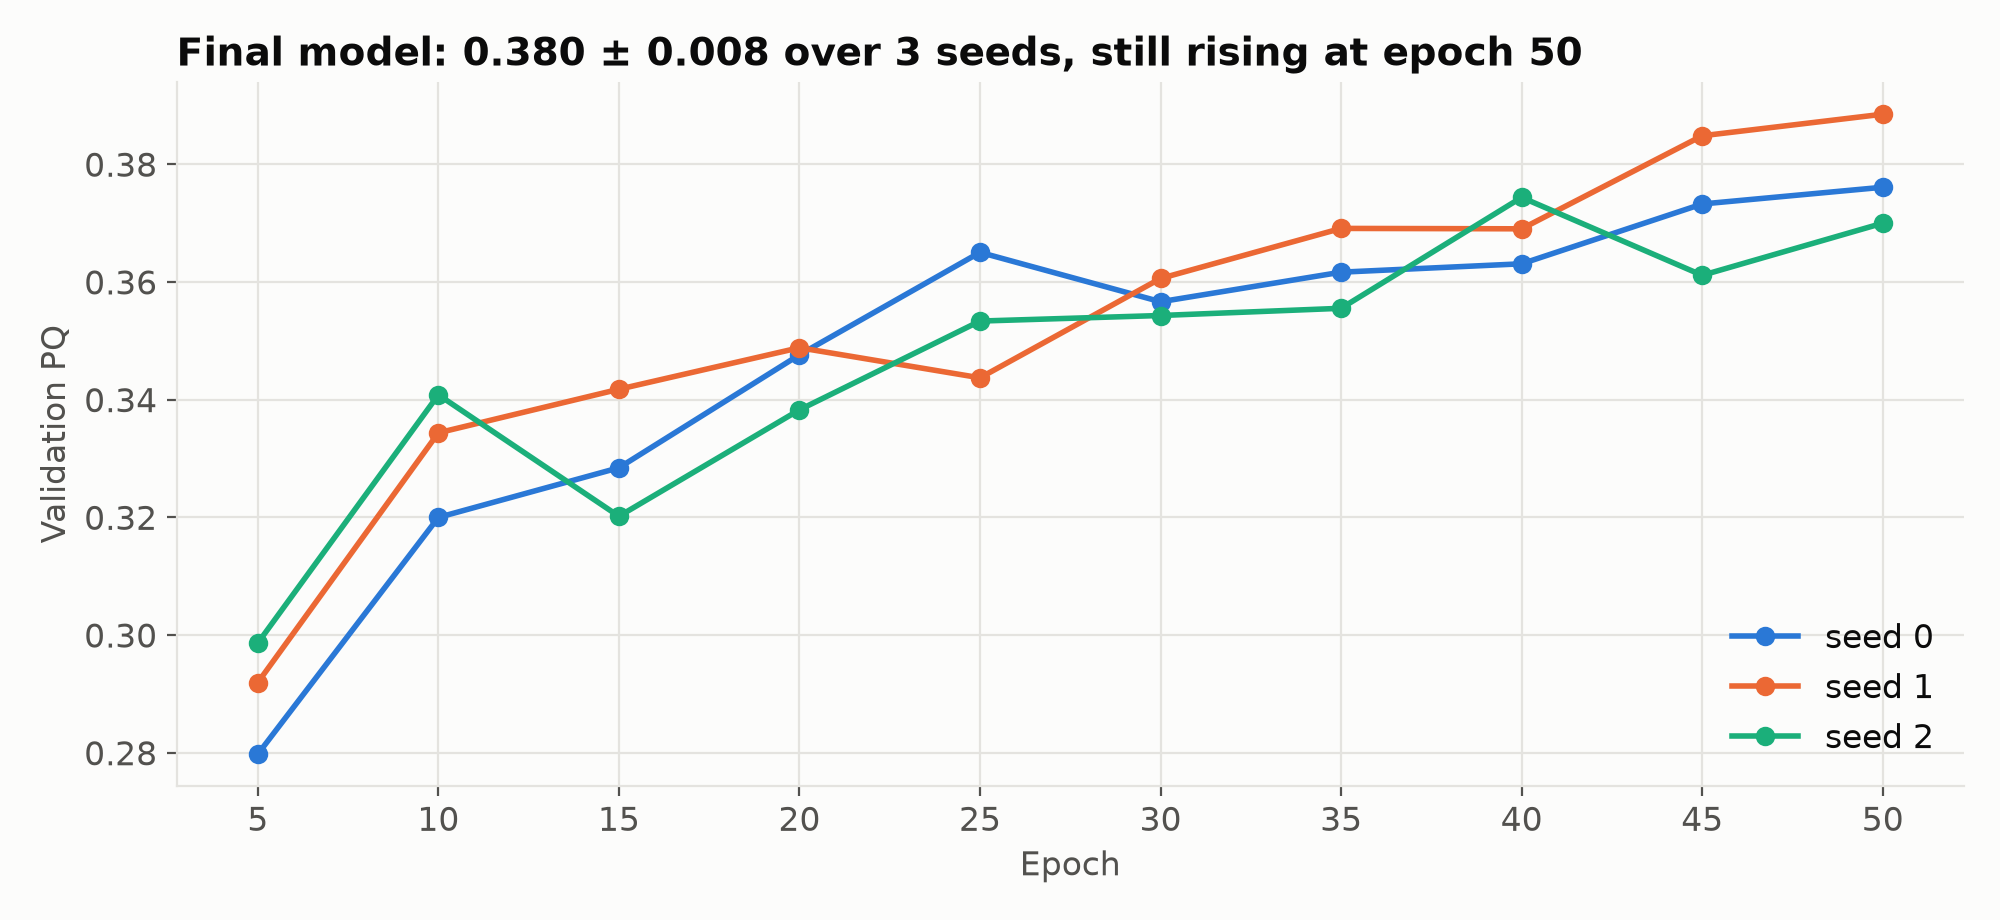
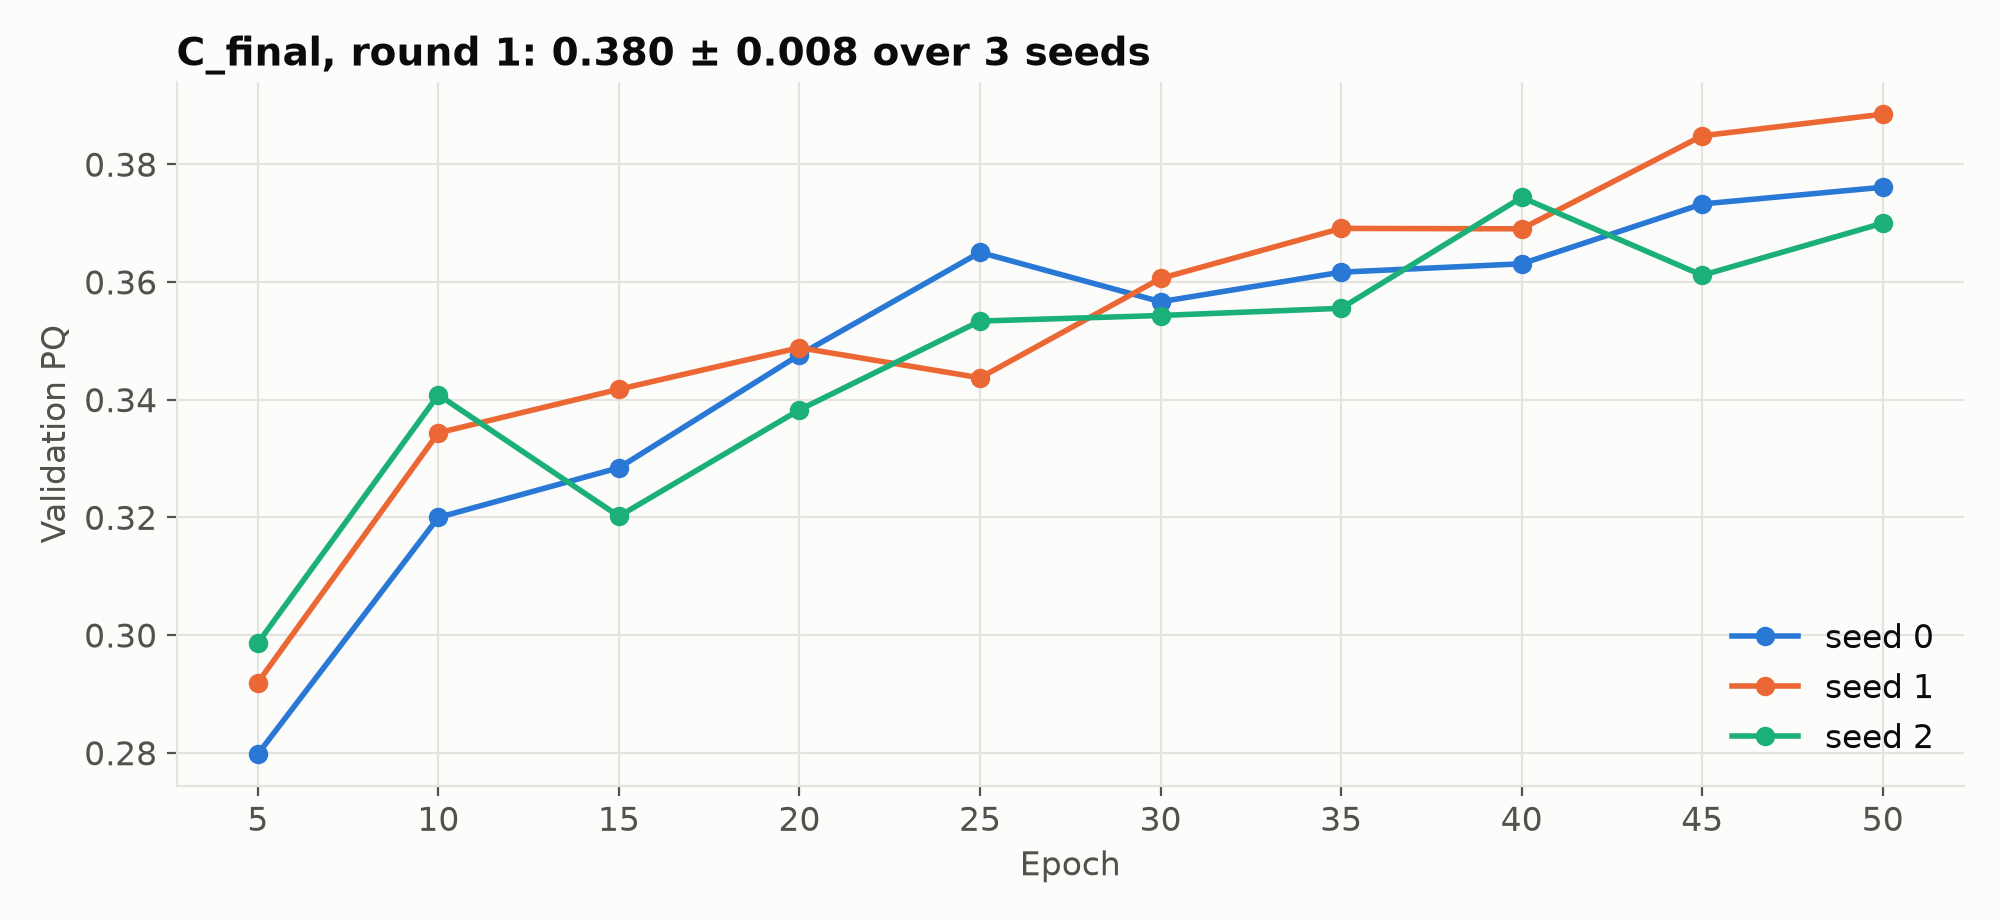
Keep C_final as final model; add round 2 results and two-round analysis

Changed region(s): [[0.093, 0.0304, 0.806, 0.0913]]

diff --git a/docs/make_figures.py b/docs/make_figures.py
@@ -1,6 +1,7 @@
-"""Slide figures for the methodology section, from the Kaggle runs in results/runs.
+"""Slide figures for the methodology section, from the Kaggle runs: round 1 in results/runs
+(with training histories), round 2 in results/round2/results.csv.
 
-Usage: python docs/make_figures.py [runs_dir] [out_dir]
+Usage: python docs/make_figures.py [runs_dir] [out_dir] [round2_csv]
 """
 import sys
 from pathlib import Path
@@ -16,7 +17,7 @@ OUT.mkdir(parents=True, exist_ok=True)
 
 SURFACE, INK, INK2, GRID = "#fcfcfb", "#0b0b0b", "#52514e", "#e4e3df"
 SERIES = ["#2a78d6", "#eb6834", "#1baf7a", "#eda100"]  # categorical slots 1-4, fixed order
-BAR, BAR_FINAL = "#86b6ef", "#1c5cab"                 # one hue; the final model in a darker step
+BAR = "#86b6ef"                                       # light blue band for C_final's spread
 
 plt.rcParams.update({
     "figure.facecolor": SURFACE, "axes.facecolor": SURFACE, "savefig.facecolor": SURFACE,
@@ -27,6 +28,7 @@ plt.rcParams.update({
 })
 
 res = pd.read_csv(RUNS / "results.csv")
+res2 = pd.read_csv(Path(sys.argv[3] if len(sys.argv) > 3 else "results/round2/results.csv"))
 
 
 def hist(run):
@@ -34,7 +36,7 @@ def hist(run):
     return h.dropna(subset=["val_PQ"])
 
 
-# 1. Stage comparison: validation PQ of every run, in the order the search ran them
+# 1. Stage comparison: every run of both Kaggle rounds, so the run-to-run noise is visible
 labels = {
     "A1_unet_fg": "A1  U-Net, fg only",
     "A2_unet_mt": "A2  U-Net, 5 outputs",
@@ -43,33 +45,41 @@ labels = {
     "B1_lr0.001": "B1  lr 1e-3",
     "B2_soft0.5": "B2  soft labels",
     "B2_crop768": "B2  768 crops",
+    "D1_soft_crop768": "D1  soft labels + 768 crops",
+    "D2_crop1024": "D2  1024 crops",
+    "D3_pos0.5": "D3  50% filament-centred crops",
+    "C_final": "C  final: 768 crops, 50 ep (3 seeds)",
+    "D_final": "D  1024 crops, 80 ep (1 seed)",
 }
-single = res[res.name.isin(labels)].set_index("name").loc[list(labels)]
-final = res[res.name == "C_final"].val_PQ
-rows = [(labels[n], single.loc[n, "val_PQ"], 0.0, BAR) for n in labels]
-rows.append(("C  final: 768 crops, 50 ep (3 seeds)", final.mean(), final.std(), BAR_FINAL))
-pp = pd.read_csv(next(RUNS.glob("C_final_s*/pp_grid.csv")))  # tuned on the best seed
-best_seed = res[res.name == "C_final"].sort_values("val_PQ").iloc[-1].seed
-rows.append((f"C  seed {best_seed} + tuned post-processing", pp.PQ.iloc[0], 0.0, BAR_FINAL))
+rounds = {1: res, 2: res2}
+c_all = pd.concat([r[r.name == "C_final"].val_PQ for r in rounds.values()])
 
-fig, ax = plt.subplots(figsize=(10, 5.6))
-y = range(len(rows))[::-1]
-for yi, (lab, v, sd, c) in zip(y, rows):
-    ax.barh(yi, v, height=0.62, color=c, edgecolor=SURFACE, linewidth=2)
-    if sd:
-        ax.errorbar(v, yi, xerr=sd, color=INK, capsize=4, lw=1.5)
-    ax.text(v + (sd or 0) + 0.004, yi, f"{v:.3f}" + (f" ± {sd:.3f}" if sd else ""),
-            va="center", color=INK, fontsize=11)
-ax.set_yticks(list(y), [r[0] for r in rows])
-ax.set_xlim(0, 0.48)
-ax.set_axisbelow(True)
+fig, ax = plt.subplots(figsize=(10, 6.9))
+ax.axvspan(c_all.mean() - c_all.std(), c_all.mean() + c_all.std(), color=BAR, alpha=0.35, lw=0,
+           label=f"C_final mean ± sd ({len(c_all)} runs)")
+y = list(range(len(labels)))[::-1]
+for yi, name in zip(y, labels):
+    vals = []
+    for (rnd, r), c, off in zip(rounds.items(), SERIES, (0.12, -0.12)):
+        v = r[r.name == name].val_PQ
+        vals += v.tolist()
+        ax.scatter(v, [yi + off] * len(v), s=46, color=c, edgecolor=SURFACE, linewidth=1.5, zorder=3,
+                   label=f"round {rnd}" if yi == y[0] else None)
+    mean = sum(vals) / len(vals)
+    ax.plot([mean, mean], [yi - 0.3, yi + 0.3], color=INK, lw=2, zorder=4)
+    ax.text(0.405, yi, f"{mean:.3f}" + (f"  (n={len(vals)})" if len(vals) != 2 else ""),
+            va="center", color=INK, fontsize=10)
+ax.set_yticks(y, list(labels.values()))
+ax.set_xlim(0.28, 0.43)
 ax.set_xlabel("Validation PQ (107 observations, all annotation sets)")
 ax.grid(axis="y", visible=False)
-ax.set_title("Validation PQ, stage by stage", loc="left")
-fig.text(0.01, 0.01, "Single-seed runs differ by seed noise of about ±0.008 (std over the three final seeds).",
-         color=INK2, fontsize=10)
+ax.set_axisbelow(True)
+ax.legend(loc="upper left", bbox_to_anchor=(0, -0.11), ncol=3, fontsize=10)
+ax.set_title("Validation PQ of every run; black tick = mean", loc="left")
+fig.text(0.01, 0.01, "Each experiment ran once per round (D-stage runs: round 2 only). "
+         "The same configuration varies by about ±0.007 between runs.", color=INK2, fontsize=10)
 fig.tight_layout(rect=(0, 0.03, 1, 1))
-fig.savefig(OUT / "stage_comparison.png", dpi=200)
+fig.savefig(OUT / "stage_comparison.png", dpi=200, bbox_inches="tight")
 
 # 2. Validation PQ during training: architecture/formulation runs and the crop-size winner
 curves = [("A1_unet_fg_s0", "A1 U-Net, fg only"), ("A2_unet_mt_s0", "A2 U-Net, 5 outputs"),
@@ -82,7 +92,7 @@ for (run, lab), c in zip(curves, SERIES):
                 xytext=(6, 0), textcoords="offset points", va="center", color=INK, fontsize=10)
 ax.set(xlabel="Epoch", ylabel="Validation PQ", xticks=[5, 10, 15, 20], xlim=(3, 22.5))
 ax.legend(loc="lower right")
-ax.set_title("Five outputs beat fg-only; larger crops help most", loc="left")
+ax.set_title("Round 1: five outputs beat fg-only; larger crops help most", loc="left")
 fig.tight_layout()
 fig.savefig(OUT / "val_pq_curves.png", dpi=200)
 
@@ -93,7 +103,8 @@ for s, c in zip(range(3), SERIES):
     ax.plot(h.epoch, h.val_PQ, color=c, lw=2, marker="o", ms=6, label=f"seed {s}")
 ax.set(xlabel="Epoch", ylabel="Validation PQ", xticks=range(5, 55, 5))
 ax.legend(loc="lower right")
-ax.set_title(f"Final model: {final.mean():.3f} ± {final.std():.3f} over 3 seeds, still rising at epoch 50",
+final = res[res.name == "C_final"].val_PQ
+ax.set_title(f"C_final, round 1: {final.mean():.3f} ± {final.std():.3f} over 3 seeds",
              loc="left")
 fig.tight_layout()
 fig.savefig(OUT / "final_seeds.png", dpi=200)

diff --git a/docs/methodology.md b/docs/methodology.md
@@ -1,8 +1,9 @@
 # Experimental Setup and Methodology (presentation section 2, 20 marks)
 
 Slide content and speaker notes for the methodology part of the video. The code is in
-`notebooks/02_experimental_setup.ipynb` and `src/`. The numbers come from the Kaggle runs in
-`results/runs/` (Tesla T4), and the slide charts are in `docs/figures/` (regenerate them with
+`notebooks/02_experimental_setup.ipynb` and `src/`. The notebook was run twice on Kaggle (Tesla T4):
+round 1 is in `results/runs/` (with training histories and per-image scores) and round 2 in
+`results/round2/results.csv`. The slide charts are in `docs/figures/` (regenerate them with
 `python docs/make_figures.py`).
 
 Aim for about 2 minutes of speaking: 5 slides, roughly 25 seconds each.
@@ -58,44 +59,45 @@ Aim for about 2 minutes of speaking: 5 slides, roughly 25 seconds each.
 - Validation runs on the **full disk** (no crops). The prediction is scored against **every annotator's set**, averaged over sets, then over observations
 - Metrics: **PQ** (mean ± std over observations, and pooled over all sets), SQ, RQ, pixel Dice, and **one-to-many / many-to-one** counts (fragmentation and merging)
 - **Model selection on validation PQ** every 5 epochs, not on loss
-- **Cost of the final model** (Tesla T4): 24.4 M parameters, 93 MB fp32 / 47 MB fp16, **61 min** to train (50 epochs, 74 s per epoch), **0.40 s per image** end to end (raw JPEG → disk fit → network → instance map)
+- **Cost of the final model** (Tesla T4): 24.4 M parameters, 93 MB fp32 / 47 MB fp16, **about 1 hour** to train (50 epochs at 768 crops; 58–61 min in the two rounds), **0.40 s per image** end to end (raw JPEG → disk fit → network → instance map)
 
 > *Notes:* "We select checkpoints on PQ itself because the loss does not penalise merges or splits. Scoring against every annotator and then averaging per observation means observations with three annotators don't count three times."
 
 ---
 
-## Slide 5: Tuning: staged search
+## Slide 5: Tuning, and what held up when we repeated it
 
-| Stage | What is tested | Runs | Val PQ | Kept |
-|---|---|---|---|---|
-| A1 → A2 | fg only → all 5 outputs (U-Net from scratch) | 2 × 20 ep | 0.287 → **0.325** | 5 outputs |
-| A3 | ImageNet ResNet-34 encoder, lr 3e-4 | 20 ep | **0.330** | ResNet-34 |
-| B1 | lr 1e-4 / 3e-4 / 1e-3 | 2 × 20 ep (+ A3) | 0.327 / **0.330** / 0.324 | lr 3e-4 |
-| B2 | soft consensus labels (α = 0.5); 768 crops (batch 4) | 2 × 20 ep | 0.341; **0.358** | 768 crops |
-| C | ResNet-34, 5 outputs, lr 3e-4, 768 crops, 50 epochs, **3 seeds** | 3 × 50 ep | **0.380 ± 0.008** | (vs D) |
-| D1–D3 | aimed at Stage C's errors: soft labels + 768 crops; 1024 crops (batch 2); 50% filament-centred crops | 3 × 20 ep | **0.370**; **0.370**; 0.362 (B2 retrained: 0.353) | D1: ties D2 at half the training time |
-| D | D1's setup (soft labels + 768 crops), 50 epochs, 3 seeds | 3 × 50 ep | *pending* | final model if better than C |
-| post | fg threshold {0.3–0.7} × min area {0–200 px}, best seed | grid of 25 | 0.388 → **0.405** (thr 0.4, min area 200) | |
+Every experiment was run **twice** (two Kaggle rounds), so we could measure the noise instead of guessing it. Values are the mean of both rounds, with each round's result in brackets.
 
-Charts: `docs/figures/stage_comparison.png` (this table as a bar chart), `val_pq_curves.png` (Stage A plus 768 crops), and `final_seeds.png` (the three final seeds).
+| Stage | Change | Val PQ | Verdict |
+|---|---|---|---|
+| A1 → A2 | fg only → all 5 outputs (U-Net from scratch) | 0.289 → **0.320** (+0.031: +0.038, +0.024) | kept, both rounds agree |
+| A3 | ImageNet ResNet-34 encoder, lr 3e-4 | **0.336** (0.330, 0.342), +0.017 vs scratch | kept; also trains 1.5× faster |
+| B1 | lr 1e-4 / **3e-4** / 1e-3 | 0.323 / **0.336** / 0.328 | 3e-4 best in both rounds |
+| B2 | soft consensus labels (α = 0.5) | 0.335 (0.341, 0.329), −0.001 | **dropped**: the rounds disagree in sign |
+| B2 | 768 crops (batch 4) | **0.355** (0.358, 0.353), +0.019 | kept |
+| C | the above, 50 epochs, 3 seeds per round | **0.377 ± 0.006** (6 runs) | **final model** |
+| D1–D3 | soft labels + 768; 1024 crops; 50% filament-centred crops | 0.370; 0.370; 0.362 (round 2, 20 ep) | single runs, borderline |
+| D | 1024 crops, 80 epochs | 0.383 (1 seed) | within C's spread at 2.9× the training time, so stopped |
+| post | fg threshold × minimum area, on C's best seed | 0.388 → **0.405** (thr 0.4, min area 200) | baseline only; the rest is in Enhancement |
+
+Chart: `docs/figures/stage_comparison.png` shows every run as a dot, coloured by round, with C_final's spread shaded. Also `val_pq_curves.png` (Stage A plus 768 crops, round 1) and `final_seeds.png` (C_final, round 1).
 
 What the search showed:
-- **Noise level:** the three final seeds differ by ±0.008 PQ, so single-run differences smaller than about 0.01 are not meaningful. That covers the learning rate (all three within 0.006) and pretrained vs scratch (+0.005).
-- **Clear gains:** the auxiliary outputs (+0.038; false positives 1614 → 1326 and fragmented filaments 216 → 189), 768 crops (+0.028; false positives 1347 → 966), and 50 epochs instead of 20 (+0.022). Soft labels gave +0.011, a borderline result.
-- **ResNet-34 kept for speed:** the pretrained encoder scored about the same as the scratch U-Net but trained about 1.5× faster (33 s vs 50 s per epoch).
-- **Main error:** false positives (about 850 vs 855 true positives) and fragmentation (about 127 filaments split in two or more, vs 27 merges), so RQ (0.57) is much lower than SQ (0.65). Removing blobs under 200 px gives +0.017, which suggests many false positives are small fragments.
-
-- Each stage builds on the previous winner (greedy search), which kept Stages A–C to 10 runs, about 6 hours of training and validation on a Kaggle T4
-- **Stage D** follows from analysing Stage C's errors, using training-side changes only (post-processing belongs to the Enhancement section). It combines soft labels with 768 crops, tries 1024 crops, and shows the network more filament-free crops to cut false positives. Soft labels + 768 crops and 1024 crops tied (0.3695 vs 0.3698), so we kept the one that trains in half the time. 50% filament-centred crops did not reduce false positives and missed more filaments, so it was dropped. D_final trains for 50 epochs like C: Stage C gained only about 0.01 PQ between epochs 25 and 50, which is near the seed noise, so we did not train for longer. The final model is whichever of C and D scores higher, under the same fixed post-processing.
+- **Noise level:** the same configuration scores about **±0.007** differently between runs, so two single runs need to differ by about 0.02 before it means anything.
+- **Gains that held up in both rounds:** predicting the auxiliary outputs (+0.031), 768 instead of 512 crops (+0.019), the pretrained encoder (+0.017, and faster), and 50 instead of 20 epochs (+0.021).
+- **A gain that didn't hold up:** soft labels gave +0.010 in round 1 but −0.013 in round 2. One run would have misled us.
+- **Training-side changes plateaued at about 0.37–0.38.** Stage D's targeted changes (soft labels + 768 crops, 1024 crops, more filament-free crops) each landed within about 0.01 of C. D_final (1024 crops, 80 epochs) scored 0.383, inside C_final's spread, for 2.9× the training time. We stopped there and kept C_final.
+- **The remaining errors are not a training problem:** false positives (about 870 per run, as many as the true positives) and fragmented filaments (about 130, vs about 25 merges), so RQ (0.56) is much lower than SQ (0.65). Removing blobs under 200 px alone gives +0.017, which points to post-processing (Enhancement section).
 - Caveat to say aloud: the post-processing is tuned on the same validation set, so 0.405 is optimistic. The **Kaggle leaderboard** is the unbiased check.
 
-> *Notes:* "We tuned greedily on a limited GPU budget. The three final seeds vary by about 0.008 PQ, which tells us which differences are real. Predicting the extra outputs, larger crops and longer training clearly helped. The learning rate barely mattered, and the pretrained encoder matched the scratch U-Net but trained one and a half times faster. The final model scores 0.380 ± 0.008 validation PQ, or 0.405 after tuning post-processing, and its main weakness is false positives and fragmented filaments, which is what our enhancement section tackles."
+> *Notes:* "We tuned greedily on a limited GPU budget, then ran the whole search a second time, which showed that runs of the same setup differ by about 0.007 PQ. Predicting the extra outputs, larger crops, the pretrained encoder and longer training held up in both rounds. Soft labels looked helpful once, then didn't, so we dropped them. Targeted changes after that, like larger crops and much longer training, stayed within the noise at up to three times the cost, so we stopped. The final model scores 0.377 ± 0.006 over six runs, or 0.405 after tuning the threshold. Its remaining errors are false positives and fragmented filaments, which our enhancement section tackles."
 
 ---
 
 ## Hand-offs
 
-- **Results (section 3):** `results/runs/results.csv` (one row per run), `results/runs/<run>/val_per_set.csv` (per-image PQ, for best and worst cases), `history.csv`, and `results/runs/C_final_s1/test_pred/*.npz` (180 test instance maps, to encode into `submission.csv`).
+- **Results (section 3):** `results/runs/results.csv` (one row per run), `results/runs/<run>/val_per_set.csv` (per-image PQ, for best and worst cases), `history.csv`, and `results/runs/C_final_s1/test_pred/*.npz` (180 test instance maps from round 1's best C seed, to encode into `submission.csv`). Round 2's Kaggle output has the same from its best C seed (`C_final_s2`). Submitting both to Kaggle is a free, unbiased check of how much the choice of seed matters.
   - Best validation observations (seed 1): `20210721123430_Ch` (PQ 0.74), `20110313082654_Uh` (0.68).
   - Worst: `20220418020950_Uh` and `20200105073250_Uh` (PQ 0; one or two filaments missed), and `20140818195814_Mh` (0.10; 10 false positives).
   - By instrument, PQ ranges from 0.36 (Mh, Bh) to 0.43 (Ch).
